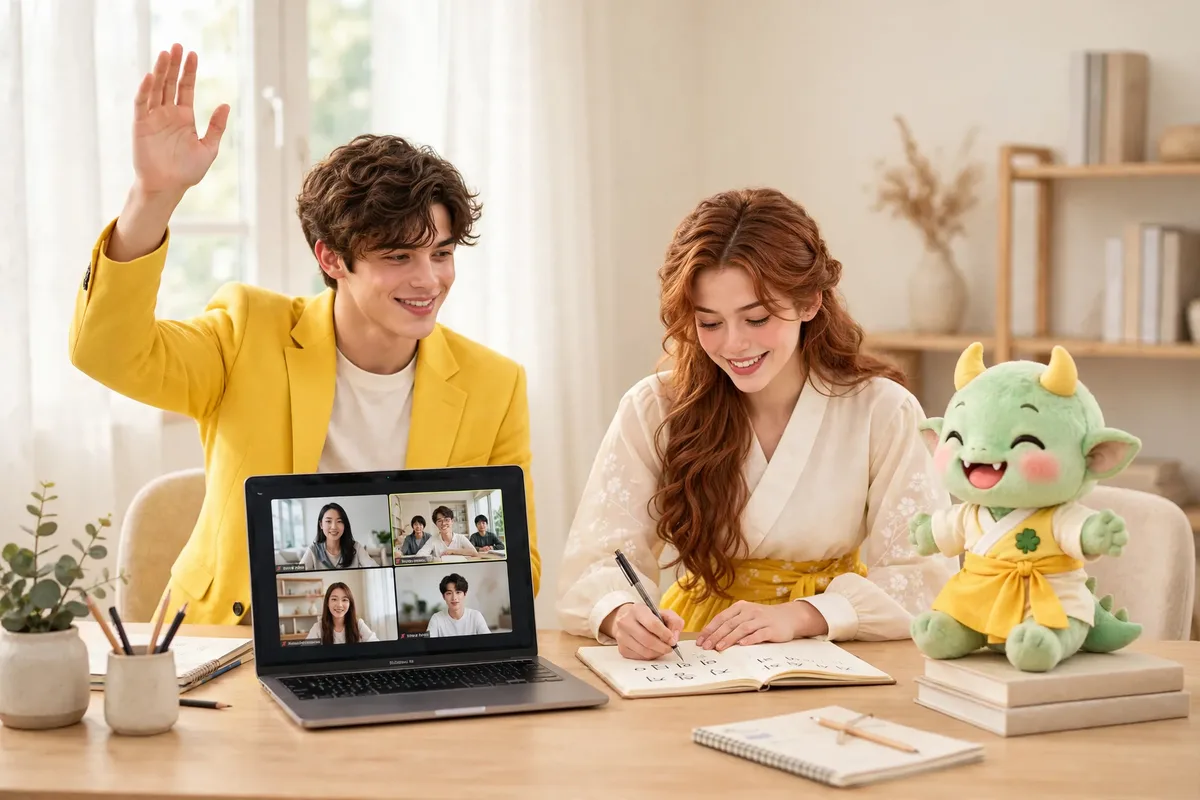
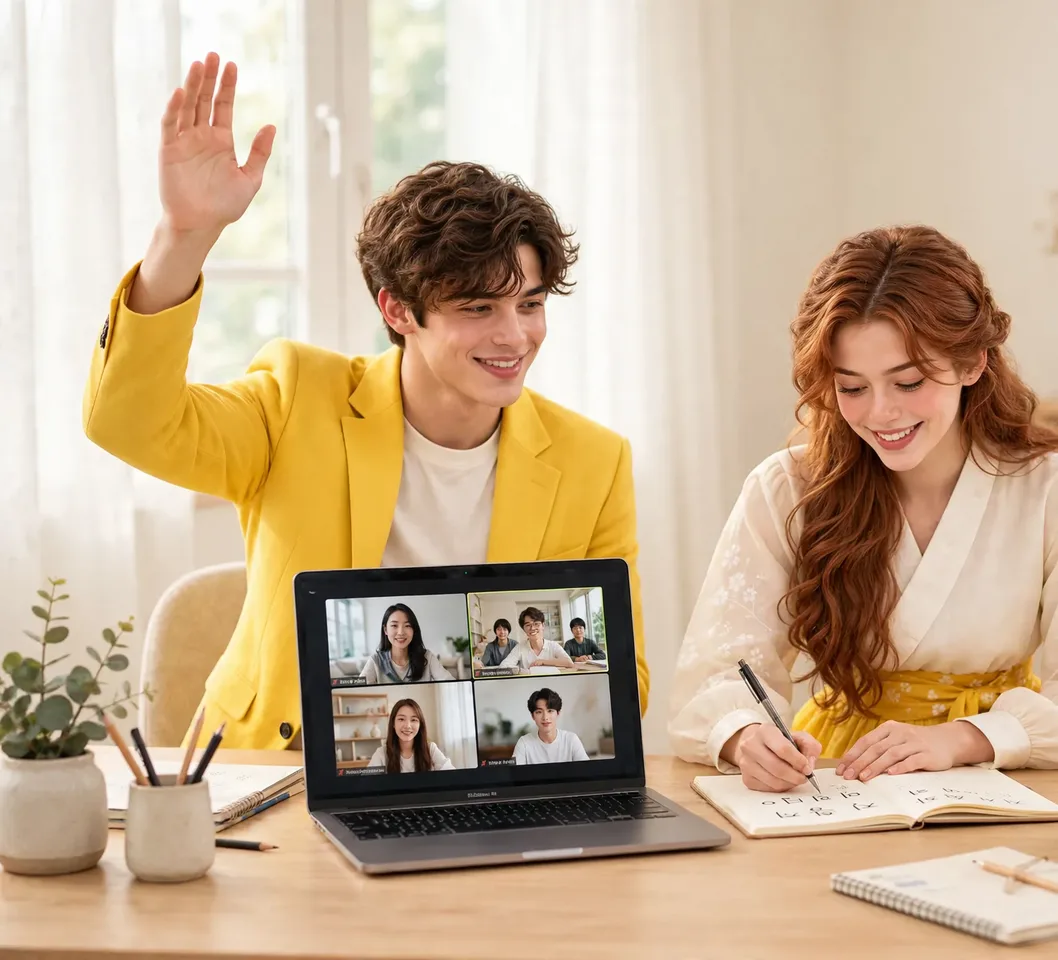
Homepage: no Cluby in the hero or first-class image
Re: the mascot made the front page read as a children's site. New hero is
one photoreal adult learner in a live online class (AI Room Lab, no
character refs); the jumping Cluby badge under the hero is removed; Cluby
is cropped out of the first-class picture. Canon updated: homepage slot 1
(hero) now has no characters.

Claude-Session: https://claude.ai/code/session_015xew6zESjtcjADaeHbSuQX

diff --git a/src/components/HeroSection.tsx b/src/components/HeroSection.tsx
@@ -11,14 +11,14 @@ import KloverIcon, { type KloverIconName } from "@/components/KloverIcon";
  * phones the crop moves right (object-[97%_center]) so the text lands on sky
  * and roofs instead of faces.
  *
- * 18 Nov 2026 (Re, incubation review): replaced with hero-online.jpg, a
+ * 18 Nov 2026 (Re, incubation review): replaced with hero-learner.jpg, a
  * photoreal learner in a live ONLINE class at home with Cluby on the desk
  * (made in /admin/ai-room-lab, clubyOnly mode). The old porch scene read as
  * illustrated and did not show the product. Learner sits left, so the same
  * crops still work. Phones now crop at 60% (not 97%) so the laptop with the
  * live class AND Cluby stay in frame; at 97% only Cluby and a bare table showed.
  */
-const heroPoster = "/hero-online.jpg";
+const heroPoster = "/hero-learner.jpg";
 /*
  * 6 Oct 2026 (mobile LCP): the same photo through Vercel Image Optimization
  * ("images" in vercel.json) - AVIF/WebP, 21 KB at 828w and 59 KB at full
@@ -29,7 +29,7 @@ const heroPoster = "/hero-online.jpg";
  * on Vercel, so the dev server keeps the plain JPG.
  */
 const HERO_SRCSET = import.meta.env.PROD
-  ? [828, 1200, 1920].map((w) => `/_vercel/image?url=%2Fhero-online.jpg&w=${w}&q=70 ${w}w`).join(", ")
+  ? [828, 1200, 1920].map((w) => `/_vercel/image?url=%2Fhero-learner.jpg&w=${w}&q=70 ${w}w`).join(", ")
   : undefined;
 const HERO_SIZES = "(max-width: 767px) 155vh, 100vw";
 const heroVideo = "/videos/hero-korea-video-new.mp4";
@@ -401,32 +401,10 @@ const HeroSection = () => {
 
       {/* ── The board's four promise cards, lifted onto the cover ── */}
       <div className="relative z-20 mx-auto max-w-6xl px-4 -mt-12 pb-12 sm:-mt-20">
-        {/* This week's Cluby badge, sitting on the top edge of the end-side
-            card and peeking up into the hero. Decorative: the cards carry
-            the meaning. See CLUBY_BADGE above to swap it. A real jump loop
-            (bar-jump/bar-shadow, both motion-safe) - squash, launch, turn,
-            land, rest - not just a static badge. Portrait box (~0.77
-            aspect) to match the full-body cutout instead of a square crop. */}
-        <div
-          className="pointer-events-none absolute bottom-full end-8 z-10 h-[84px] w-[65px] select-none md:end-10 md:h-[120px] md:w-[92px]"
-        >
-          {/* Ground shadow: shrinks and fades as Cluby leaves the ground. */}
-          <div
-            aria-hidden="true"
-            className="absolute bottom-0 start-1/2 h-[14px] w-[60%] -translate-x-1/2 rounded-full bg-charcoal/45 blur-[3px] motion-safe:animate-bar-shadow rtl:translate-x-1/2"
-          />
-          <img
-            src={CLUBY_BADGE.src}
-            alt=""
-            aria-hidden="true"
-            width={CLUBY_BADGE.width}
-            height={CLUBY_BADGE.height}
-            loading="lazy"
-            decoding="async"
-            draggable={false}
-            className="relative h-full w-full select-none object-contain object-bottom drop-shadow-[0_10px_14px_rgba(46,46,46,0.4)] motion-safe:animate-bar-jump"
-          />
-        </div>
+        {/* 18 Nov 2026 (Re): the jumping Cluby badge that sat here is gone -
+            "dont like the cluby now its children website". The hero is now
+            adult and photographic only; CLUBY_BADGE above is kept, unused,
+            in case it comes back for an occasion. */}
         <div className="grid gap-4 grid-cols-2 lg:grid-cols-4">
           {cards.map(({ icon, tone, title, body }) => (
             <div

diff --git a/index.html b/index.html
@@ -146,7 +146,7 @@
       the phone slot is 155vh wide, not 100vw. href stays the plain JPG for
       browsers that ignore imagesrcset.
     -->
-    <link rel="preload" as="image" href="/hero-online.jpg" imagesrcset="/_vercel/image?url=%2Fhero-online.jpg&amp;w=828&amp;q=70 828w, /_vercel/image?url=%2Fhero-online.jpg&amp;w=1200&amp;q=70 1200w, /_vercel/image?url=%2Fhero-online.jpg&amp;w=1920&amp;q=70 1920w" imagesizes="(max-width: 767px) 155vh, 100vw" fetchpriority="high" />
+    <link rel="preload" as="image" href="/hero-learner.jpg" imagesrcset="/_vercel/image?url=%2Fhero-learner.jpg&amp;w=828&amp;q=70 828w, /_vercel/image?url=%2Fhero-learner.jpg&amp;w=1200&amp;q=70 1200w, /_vercel/image?url=%2Fhero-learner.jpg&amp;w=1920&amp;q=70 1920w" imagesizes="(max-width: 767px) 155vh, 100vw" fetchpriority="high" />
 
     <!--
       Fonts — the brand type system from the Klovers concept board:
@@ -529,7 +529,7 @@
 
         var local = /^(localhost|127\.0\.0\.1|0\.0\.0\.0)$|\.local$/.test(window.location.hostname);
         var srcset = local ? "" : [828, 1200, 1920].map(function (w) {
-          return "/_vercel/image?url=%2Fhero-online.jpg&w=" + w + "&q=70 " + w + "w";
+          return "/_vercel/image?url=%2Fhero-learner.jpg&w=" + w + "&q=70 " + w + "w";
         }).join(", ");
         var img = document.createElement("img");
         img.className = "kl-s-img";
@@ -537,7 +537,7 @@
         img.decoding = "async";
         img.setAttribute("fetchpriority", "high");
         if (srcset) { img.sizes = "(max-width: 767px) 155vh, 100vw"; img.srcset = srcset; }
-        img.src = "/hero-online.jpg";
+        img.src = "/hero-learner.jpg";
         shell.appendChild(img);
 
         var scrim = document.createElement("div");

diff --git a/src/constants/pictureLibrary.ts b/src/constants/pictureLibrary.ts
@@ -873,7 +873,7 @@ export const LIBRARY_SITE: SitePicture[] = [
   { group: "brand", dir: "", file: "klovers-logo.jpg" },
   { group: "brand", dir: "", file: "klovers-mascot.svg" },
   { group: "brand", dir: "", file: "hero-world.jpg" },
-  { group: "brand", dir: "", file: "hero-online.jpg", label: "الهيرو الحالي: متعلمة في حصة أونلاين وكلوبي على المكتب" },
-  { group: "brand", dir: "/assets/cluby", file: "online-class.webp", label: "كيف تبدو الحصة الأولى: آدم ولينا في حصة أونلاين" },
+  { group: "brand", dir: "", file: "hero-learner.jpg", label: "الهيرو الحالي: متعلمة في حصة أونلاين (بدون كلوبي)" },
+  { group: "brand", dir: "/assets/cluby", file: "online-class.webp", label: "كيف تبدو الحصة الأولى: آدم ولينا في حصة أونلاين (بدون كلوبي)" },
   { group: "brand", dir: "", file: "og-seoul-skyline.jpg" },
 ];

diff --git a/src/components/HowItWorks.tsx b/src/components/HowItWorks.tsx
@@ -110,9 +110,9 @@ const HowItWorks = () => {
           <div className="grid gap-4 lg:grid-cols-[minmax(0,5fr)_minmax(0,6fr)] lg:items-center lg:gap-6">
             <img
               src="/assets/cluby/online-class.webp"
-              alt={isAr ? "صديقان مع كلوبي في حصة كورية مباشرة أونلاين على اللابتوب" : "Two friends and Cluby in a live online Korean class on a laptop"}
-              width={1200}
-              height={800}
+              alt={isAr ? "صديقان في حصة كورية مباشرة أونلاين على اللابتوب" : "Two friends in a live online Korean class on a laptop"}
+              width={1058}
+              height={960}
               loading="lazy"
               decoding="async"
               className="mx-auto h-auto w-full max-w-md lg:max-w-none"

diff --git a/src/config/klovers-world.ts b/src/config/klovers-world.ts
@@ -884,7 +884,10 @@ export const KLOVERS_WORLD = {
     {
       order: 1,
       section: "hero",
-      characters: ["cluby"],
+      // 18 Nov 2026 (Re): no Cluby in the hero. A mascot first thing on the
+      // page read as a children's site to adult buyers and incubator judges.
+      // The hero is one photoreal adult learner in a live online class.
+      characters: [],
       storyFunction: "invitation",
     },
 

diff --git a/docs/KLOVERS-STORY-BIBLE.md b/docs/KLOVERS-STORY-BIBLE.md
@@ -329,7 +329,7 @@ never "you failed" or "bad answer."
 
 | Order | Section | Characters | Story function |
 |---|---|---|---|
-| 1 | Hero | Cluby | Invitation |
+| 1 | Hero | (none: one photoreal adult learner in a live online class; Re, 18 Nov 2026, Cluby read as a children's site) | Invitation |
 | 2 | Live-class trust | (none) | Prove real teaching |
 | 3 | How Klovers works | male + female learner (Cluby optional) | Show learners like the visitor |
 | 4 | Learning journey | male learner + Cluby | Progression |
